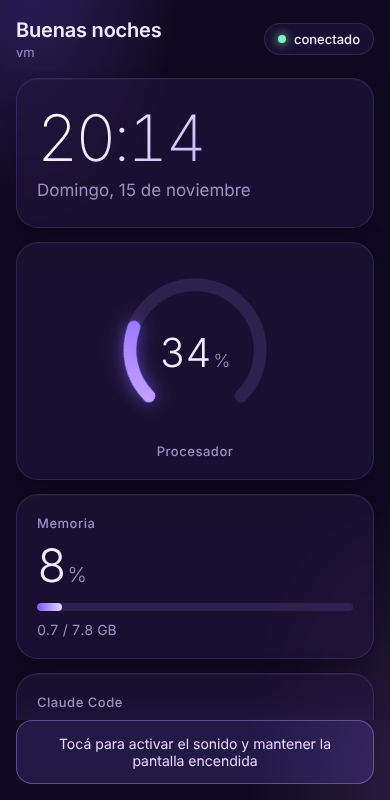
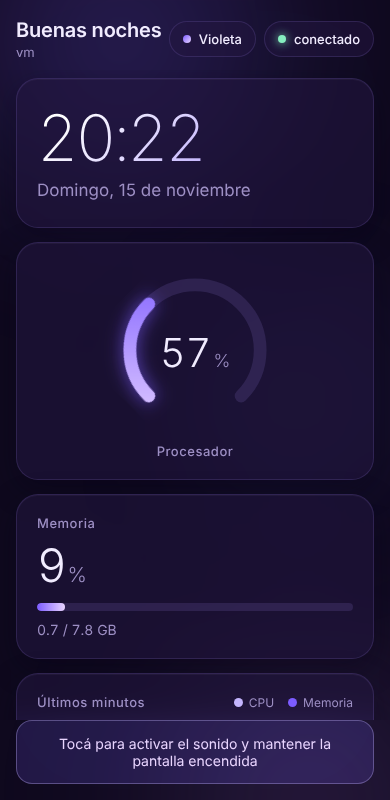
docs: capturas con gráficos y temas, README actualizado
Claude-Session: https://claude.ai/code/session_013VCRWZDjTeFo15XF7NitQy

diff --git a/README.md b/README.md
@@ -66,11 +66,11 @@ Mirá [docs/claude-code.md](docs/claude-code.md) para conectar los hooks.
 npm test
 ```
 
-22 tests con `node --test` (token, métricas, sesiones, clima con fetch simulado, servidor HTTP, SSE y funciones del panel). El CI corre en Ubuntu y Windows con Node 20 y 22.
+27 tests con `node --test` (token, métricas, sesiones, clima con fetch simulado, servidor HTTP, SSE y funciones del panel). El CI corre en Ubuntu y Windows con Node 20 y 22.
 
 ## Estado y pendientes
 
-- [x] Agente, panel, alertas, modo USB, tests y CI
+- [x] Agente, panel, alertas, modo USB, gráficos en vivo, temas, modo demo, tests y CI
 - [ ] Widget de música sonando en Windows
 - [ ] Widget de cuotas de uso
 - [ ] Probado en Windows real (hoy el desarrollo corrió en Linux; el CI cubre Windows)
